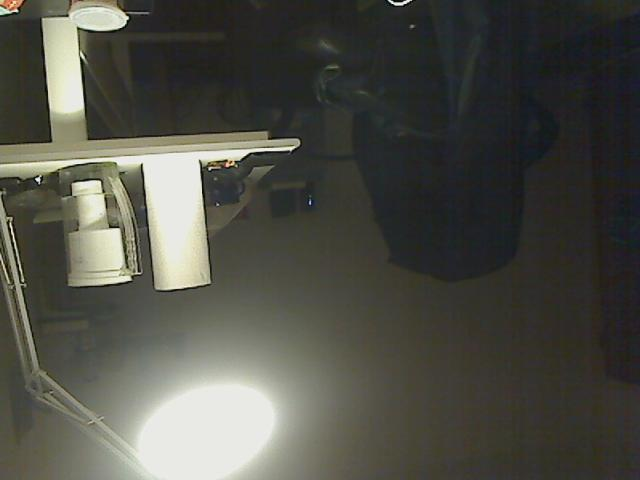
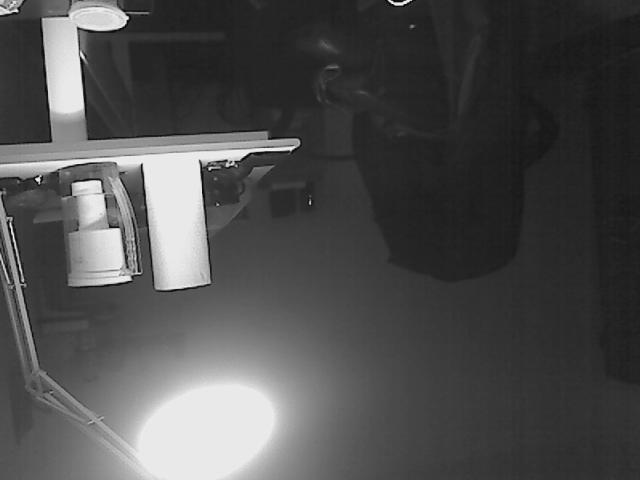
greyscale yuyv - may be helpful in drc

Changed region(s): [[0.0, 0.0, 0.4688, 0.625], [0.0, 0.0, 0.0625, 0.0312], [0.0, 0.5312, 0.0312, 0.5625]]

diff --git a/Modules/jpeg/lua_jpeg.good.c b/Modules/jpeg/lua_jpeg.good.c
@@ -237,8 +237,8 @@ static int lua_jpeg_compress_crop(lua_State *L) {
 
 	// Start and stop for crop (put into C indices)
 	w0  = luaL_optint(L, 5, 1) - 1;
-  w_cropped  = luaL_checkint(L, 6);
-	h0  = luaL_optint(L, 7, 1) - 1;
+	h0  = luaL_optint(L, 6, 1) - 1;
+  w_cropped  = luaL_checkint(L, 7);
   h_cropped  = luaL_checkint(L, 8);
 	
 	if(h_cropped+h0>height||w_cropped+w0>width){
@@ -261,7 +261,7 @@ static int lua_jpeg_compress_crop(lua_State *L) {
 	JSAMPLE* img_ptr = data;
 	
 	size_t remainder = 0;
-	if(ud->fmt==3){
+	if(ud->fmt==3 || ud->fmt==4){
 		// Safe cropping for YUYV (align to a pixel)
 		if (ud->subsample==2){
 			w0 -= (w0%4);
@@ -292,10 +292,15 @@ static int lua_jpeg_compress_crop(lua_State *L) {
 	jpeg_start_compress(cinfo, TRUE);
 	
 	// YUYV is special
-	if(ud->fmt==3){
+	if(ud->fmt==3 || ud->fmt==4){
 		size_t img_stride = 2 * width * ud->subsample;
 		img_stride += remainder;
-		JSAMPLE* yuv_row = (JSAMPLE*)malloc( 3 * w * sizeof(JSAMPLE) );
+		JSAMPLE* yuv_row;
+		if(ud->fmt==3){
+			yuv_row = (JSAMPLE*)malloc( 3 * w * sizeof(JSAMPLE) );
+		} else {
+			yuv_row = (JSAMPLE*)malloc( w * sizeof(JSAMPLE) );
+		}
 		if(yuv_row==NULL){
 			return luaL_error(L,"Bad malloc of yuv_row");
 		}
@@ -320,10 +325,12 @@ static int lua_jpeg_compress_crop(lua_State *L) {
 				//
 				*yuv_pixel = y0;
 				yuv_pixel++;
-				*yuv_pixel = u;
-				yuv_pixel++;
-				*yuv_pixel = v;
-				yuv_pixel++;
+				if(ud->fmt==3){
+					*yuv_pixel = u;
+					yuv_pixel++;
+					*yuv_pixel = v;
+					yuv_pixel++;
+				}
 				if (ud->subsample) {
 					// If subsampling, then we add only one pixel
 					i++;
@@ -331,10 +338,12 @@ static int lua_jpeg_compress_crop(lua_State *L) {
 					// Ignore this pixel if subsampling
 					*yuv_pixel = y1;
 					yuv_pixel++;
-					*yuv_pixel = u;
-					yuv_pixel++;
-					*yuv_pixel = v;
-					yuv_pixel++;
+					if(ud->fmt==3){
+						*yuv_pixel = u;
+						yuv_pixel++;
+						*yuv_pixel = v;
+						yuv_pixel++;
+					}
 					// 2 pixels
 					i+=2;
 				}
@@ -456,11 +465,16 @@ static int lua_jpeg_compress(lua_State *L) {
 	jpeg_start_compress(cinfo, TRUE);
 	
 	// YUYV is special
-	if(ud->fmt==3){
+	if(ud->fmt==3 || ud->fmt==4){
 		int w = cinfo->image_width;
 		int h = cinfo->image_height;
 		size_t img_stride = 2 * width * ud->subsample;
-		JSAMPLE* yuv_row = (JSAMPLE*)malloc( 3 * w * sizeof(JSAMPLE) );
+		JSAMPLE* yuv_row;
+		if(ud->fmt==3){
+			yuv_row = (JSAMPLE*)malloc( 3 * w * sizeof(JSAMPLE) );
+		} else {
+			yuv_row = (JSAMPLE*)malloc( w * sizeof(JSAMPLE) );
+		}
 		if(yuv_row==NULL){
 			return luaL_error(L,"Bad malloc of yuv_row");
 		}
@@ -485,23 +499,28 @@ static int lua_jpeg_compress(lua_State *L) {
 				//
 				*yuv_pixel = y0;
 				yuv_pixel++;
-				*yuv_pixel = u;
-				yuv_pixel++;
-				*yuv_pixel = v;
-				yuv_pixel++;
-				if (ud->subsample) {
-					// If subsampling, then we add only one pixel
-					i++;
-				} else {
-					// Ignore this pixel if subsampling
-					*yuv_pixel = y1;
-					yuv_pixel++;
+				if(ud->fmt==3){
 					*yuv_pixel = u;
 					yuv_pixel++;
 					*yuv_pixel = v;
 					yuv_pixel++;
+				}
+				if (ud->subsample) {
+					// If subsampling, then we add only one pixel
+					i++;
+				} else {
 					// 2 pixels
 					i+=2;
+					*yuv_pixel = y1;
+					yuv_pixel++;
+
+					if(ud->fmt==3){
+						*yuv_pixel = u;
+						yuv_pixel++;
+						*yuv_pixel = v;
+						yuv_pixel++;
+					}
+
 				}
 				
 #ifdef DEBUG
@@ -565,6 +584,11 @@ static int lua_jpeg_new_compressor(lua_State *L) {
 		cinfo->in_color_space = JCS_YCbCr;
 		cinfo->input_components = 3;
 		ud->fmt = 3;
+	} else if (strncmp(fmt, "y", 3) == 0){
+		// Use only the y channel
+		cinfo->in_color_space = JCS_GRAYSCALE;
+		cinfo->input_components = 1;
+		ud->fmt = 4;
 	} else {
 		return luaL_error(L, "Unsupported format.");
 	}
@@ -591,7 +615,7 @@ static int lua_jpeg_quality(lua_State *L) {
 
 static int lua_jpeg_downsampling(lua_State *L) {
   structJPEG *ud = lua_checkjpeg(L, 1);
-	if(ud->fmt!=3){
+	if(ud->fmt!=3 && ud->fmt!=4){
 		return luaL_error(L, "Only YUYV subsampling!");
 	}
   int dsample = luaL_checkint(L, 2);
